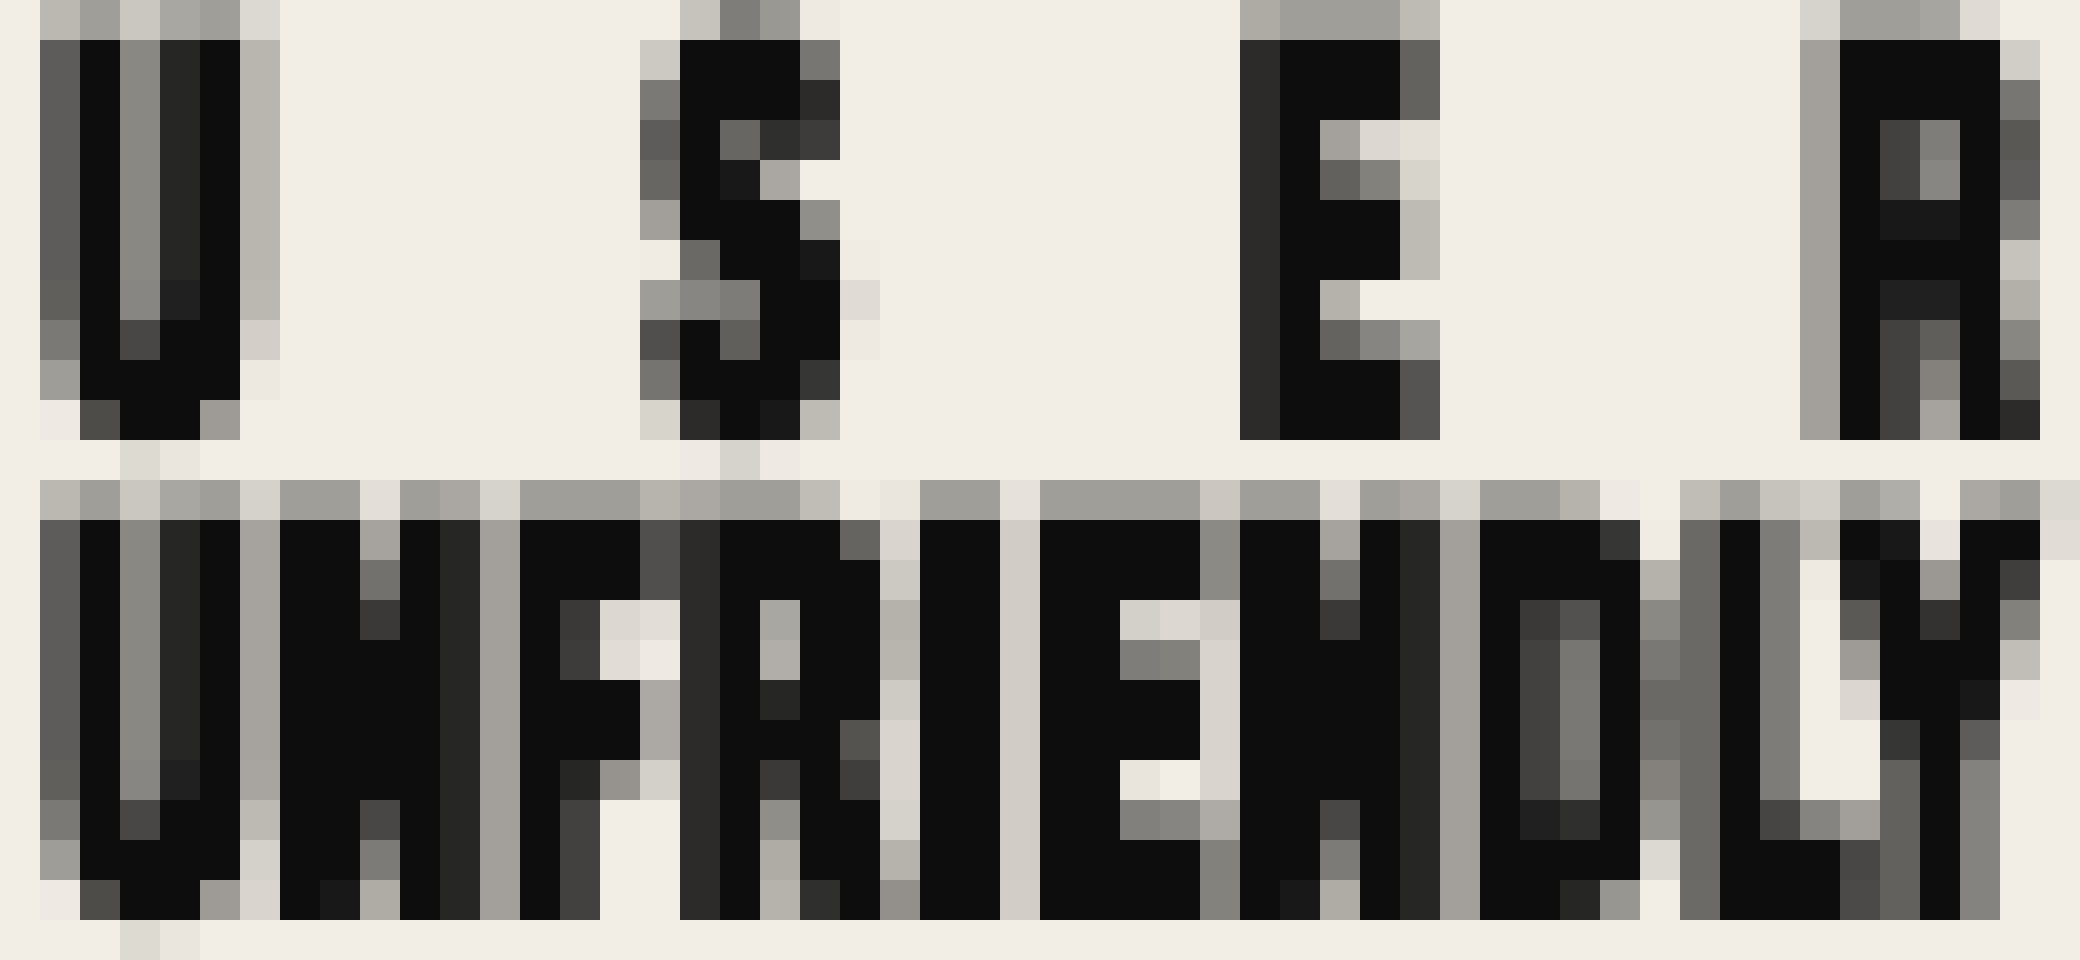
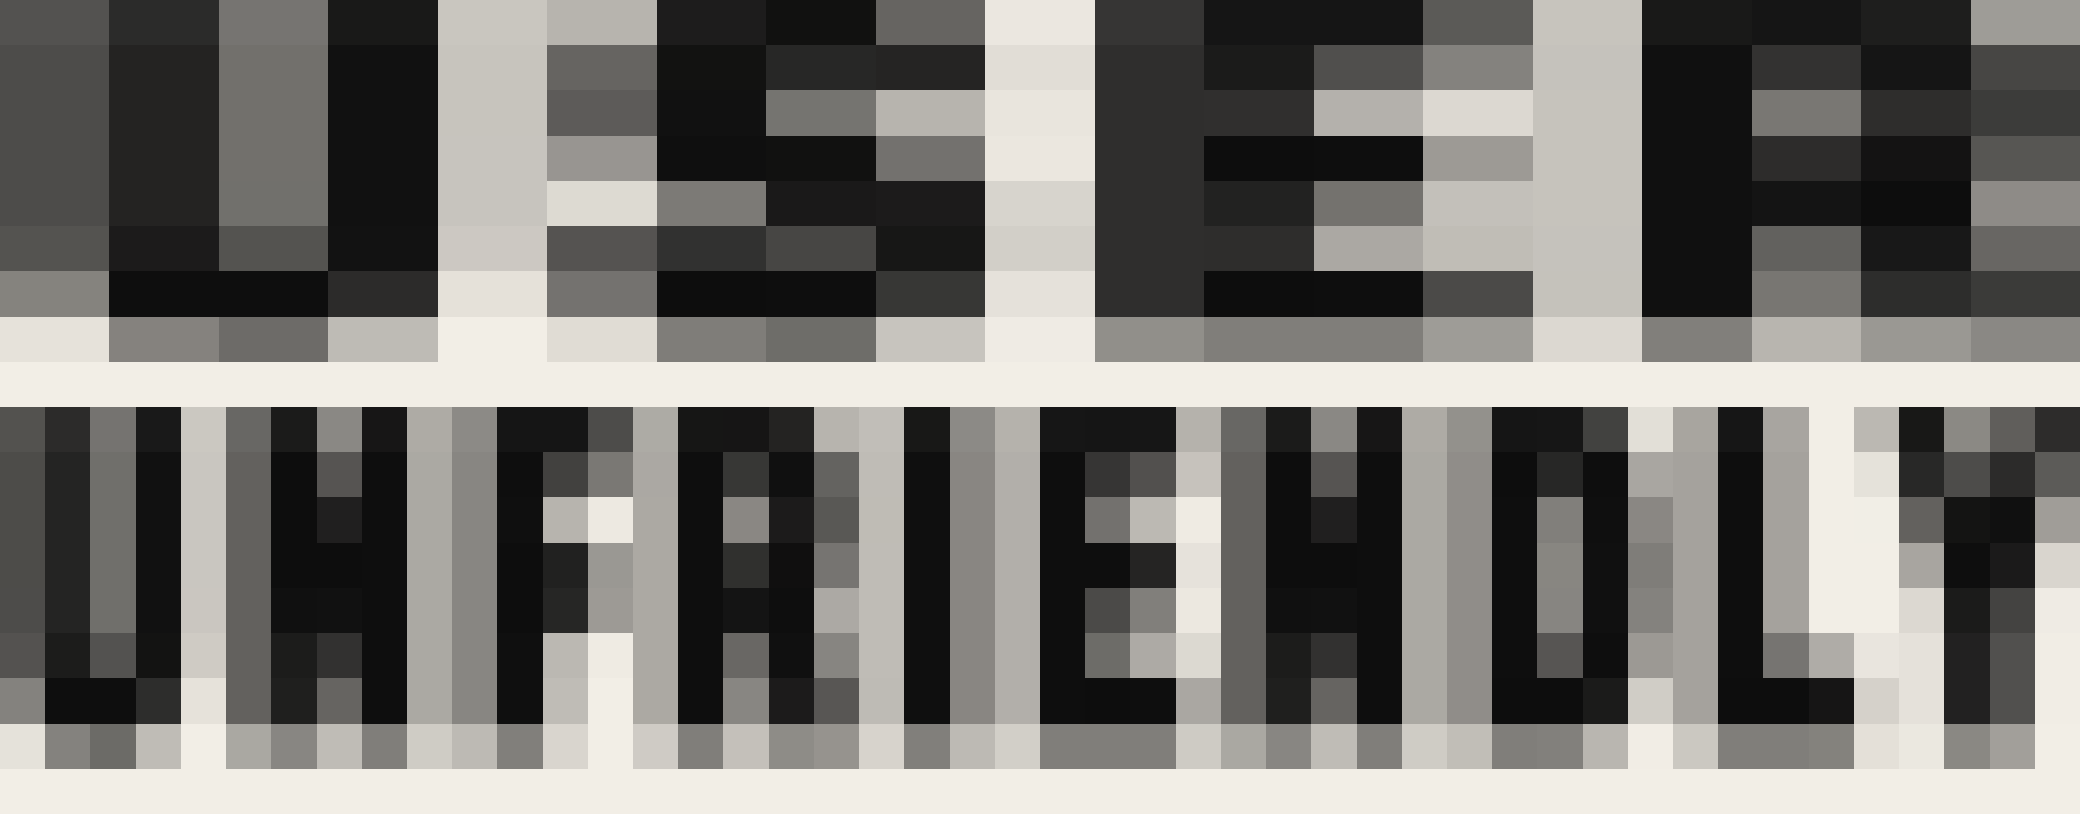
Brand sheet: the hero now follows Nawfal's launch poster
Pixelate the title the way the poster was made: set the words big, shrink
them to blocks, then stretch USER sideways so its blocks come out wide (new
pixelWord() and fitSize()). The smeared line is tall and thin with a
vertical blur, the club line has its </error> box, and the slab ends in one
DM Mono line. The page is reframed around best UI, worst UX: ruin the
features, never the facts. Boxes and tags no longer overflow on phones.

diff --git a/user-unfriendly/index.html b/user-unfriendly/index.html
@@ -40,9 +40,12 @@
     .hero__club { position: relative; margin-top: clamp(28px, 4vw, 48px); text-align: center; font-size: clamp(11px, 1.15vw, 13px); }
     .hero__clubText { display: inline-block; margin: 0; font-weight: 800; font-stretch: 62%; font-size: clamp(20px, 3.5vw, 44px); line-height: 1; letter-spacing: -0.01em; text-transform: uppercase; filter: url(#uu-smear-soft); }
     .hero__title { position: relative; margin-top: clamp(40px, 6vw, 76px); font-size: clamp(11px, 1.15vw, 13px); }
-    .hero__lineWrap { position: relative; margin-top: clamp(18px, 2.6vw, 32px); font-size: clamp(11px, 1.15vw, 13px); }
-    .hero__line { display: inline-block; margin: 0; white-space: nowrap; font-weight: 500; font-stretch: 62%; font-size: 64px; line-height: 1.05; letter-spacing: 0.03em; filter: url(#uu-smear); }
-    .hero .uu-track__tag { font-size: 1em; padding: 0.25em 0.45em 0.15em; }
+    .hero__word { position: relative; }
+    .hero__word + .hero__word { margin-top: 0; }
+    .hero__lineWrap { position: relative; text-align: center; margin-top: clamp(18px, 2.6vw, 32px); font-size: clamp(11px, 1.15vw, 13px); }
+    .hero__line { display: inline-block; margin: 0; white-space: nowrap; font-weight: 300; font-stretch: 62%; font-size: 64px; line-height: 1.1; letter-spacing: 0.09em; word-spacing: 0.12em; filter: url(#uu-smear); transform: scaleY(2); transform-origin: 50% 0; margin-bottom: 1.1em; }
+    .hero .uu-track { border-width: clamp(2px, 0.28vw, 3px); }
+    .hero .uu-track__tag { left: calc(-1 * clamp(2px, 0.28vw, 3px)); font-size: clamp(11px, 1.25vw, 14px); padding: 0.25em 0.45em 0.15em; }
     .hero__dither { display: block; width: 100%; height: auto; image-rendering: pixelated; }
     .hero__crosses { position: relative; height: 0; font-size: 14px; color: var(--uu-ink); }
     .hero__slab { padding-block: clamp(18px, 2.6vw, 32px) clamp(24px, 3.6vw, 46px); }
@@ -178,7 +181,7 @@
 <!-- ======================= HERO ======================= -->
 <header class="hero">
   <svg width="0" height="0" style="position: absolute" aria-hidden="true" focusable="false">
-    <filter id="uu-smear" x="-2%" y="-40%" width="104%" height="180%" primitiveUnits="objectBoundingBox"><feGaussianBlur stdDeviation="0.0022 0.1"/></filter>
+    <filter id="uu-smear" x="-2%" y="-40%" width="104%" height="180%" primitiveUnits="objectBoundingBox"><feGaussianBlur stdDeviation="0.0022 0.055"/></filter>
     <filter id="uu-smear-soft" x="-2%" y="-40%" width="104%" height="180%" primitiveUnits="objectBoundingBox"><feGaussianBlur stdDeviation="0.0012 0.035"/></filter>
   </svg>
   <div class="hero__field">
@@ -192,7 +195,8 @@
         <p class="hero__clubText">GDG on Campus UOBD × Computing <span class="hit">Club</span></p>
       </div>
       <div class="hero__title" data-hero-title aria-hidden="true">
-        <canvas class="uu-pixels" width="52" height="24"></canvas>
+        <div class="hero__word"><canvas class="uu-pixels" width="20" height="10"></canvas></div>
+        <div class="hero__word"><canvas class="uu-pixels" width="46" height="10"></canvas></div>
       </div>
       <div class="hero__lineWrap" data-hero-line aria-hidden="true">
         <p class="hero__line">if you can read the text above, <span class="hit">we failed</span></p>
@@ -653,7 +657,7 @@
     <ul class="files">
       <li><b>USER-UNFRIENDLY.md</b><span>These rules as one text file. Give it to a designer or an AI assistant so whatever they make matches.</span><a class="uu-btn" href="https://github.com/UdayAhuja19/gdg-resources/blob/main/user-unfriendly/USER-UNFRIENDLY.md">Read</a></li>
       <li><b>user-unfriendly.css</b><span>The colours, type and every part on this page, sized in em. Link it and use the <code>uu-</code> classes.</span><a class="uu-btn" href="user-unfriendly.css" download>Download</a></li>
-      <li><b>user-unfriendly.js</b><span>The pixel effects: the mosaic title and the red dither edge, drawn on a canvas so they stay sharp at any size.</span><a class="uu-btn" href="user-unfriendly.js" download>Download</a></li>
+      <li><b>user-unfriendly.js</b><span>The pixel effects: the launch poster's mosaic title (<code>pixelWord</code>), a simpler mosaic (<code>pixelText</code>) and the red dither edge, drawn on a canvas so they stay sharp at any size.</span><a class="uu-btn" href="user-unfriendly.js" download>Download</a></li>
       <li><b>Archivo</b><span>The one font file covers every weight (100–900) and width (62–125%). SIL Open Font License.</span><a class="uu-btn" href="fonts/archivo-latin-wdth-normal.woff2" download>Download</a></li>
       <li><b>DM Mono</b><span>Regular only. SIL Open Font License. On Google Fonts too.</span><a class="uu-btn" href="fonts/DMMono-Regular.ttf" download>Download</a></li>
     </ul>
@@ -670,7 +674,7 @@
 </footer>
 
 <script type="module">
-  import { fontsReady, pixelText, dither } from "./user-unfriendly.js";
+  import { fontsReady, pixelText, pixelWord, fitSize, dither } from "./user-unfriendly.js";
 
   // Copy a colour's hex code
   const said = document.querySelector("[data-copied]");
@@ -711,10 +715,15 @@
 
   await fontsReady();
 
-  // The hero title, pixelated like the launch poster: tall letters, a box on the first U
-  const title = document.querySelector("[data-hero-title]");
-  const boxes = pixelText(title.querySelector("canvas"), { lines: ["USER", "UNFRIENDLY"], cols: 52, spread: [0], tall: 1.35, gap: 0.1 });
-  track(title, boxes[0][0], "i cant find the back button help", true);
+  // The hero title, made like the launch poster: both words pixelated at one size, then USER stretched to the
+  // full width so its blocks come out wide. A box on the first U.
+  const [userCanvas, unfriendlyCanvas] = document.querySelectorAll("[data-hero-title] canvas");
+  const look = { tall: 1.25, soften: 0.18, track: 0.07 };
+  const size = fitSize("UNFRIENDLY", 46, undefined, look.track);
+  pixelWord(unfriendlyCanvas, "UNFRIENDLY", { size, ...look });
+  const letters = pixelWord(userCanvas, "USER", { size, ...look });
+  userCanvas.style.aspectRatio = `${unfriendlyCanvas.width} / ${userCanvas.height}`;
+  track(userCanvas.parentElement, letters[0], "i cant find the back button help", true);
 
   // Boxes round words in the smeared lines sit outside the smear, so they stay sharp
   const club = document.querySelector("[data-hero-club]");
@@ -735,7 +744,7 @@
   const layout = () => {
     // The smeared line runs the full width, like the poster
     line.style.fontSize = "64px";
-    line.style.fontSize = `${(64 * lineWrap.clientWidth) / line.getBoundingClientRect().width}px`;
+    line.style.fontSize = `${(64 * 0.8 * lineWrap.clientWidth) / line.getBoundingClientRect().width}px`;
     around(lineWrap, line.querySelector(".hit"), failed, 6, 2);
     const hit = club.querySelector(".hit");
     around(club, hit, clubBox, 6, 10, hit.getBoundingClientRect().width * 1.6);

diff --git a/user-unfriendly/user-unfriendly.js b/user-unfriendly/user-unfriendly.js
@@ -26,8 +26,9 @@ function setFont(ctx, px, stretch = "extra-condensed") {
 }
 
 /*
-  Draws lines of capitals into a canvas `cols` pixels wide. Lines whose index is in `spread` are spaced out
-  letter by letter to fill the width (USER on the launch poster); the other lines decide the type size.
+  Draws lines of capitals into a canvas `cols` pixels wide. Lines whose index is in `spread` are stretched
+  sideways to fill the width, letters wide and close together (USER on the launch poster); the other lines
+  decide the type size.
   Returns every letter's box as fractions of the canvas ({ x, y, w, h }), for placing tracking boxes on top.
   `stretch` is a canvas width keyword ("condensed" is wider); `tall` stretches the letters upwards, 1.35 for the
   launch poster's tall letters.
@@ -58,21 +59,20 @@ export function pixelText(canvas, { lines, cols = 60, spread = [], color = INK, 
     const base = 1 + cap * (i + 1) + lead * i;
     const chars = [...line];
     const widths = chars.map((c) => ctx.measureText(c).width);
-    const draw = (text, x) => {
+    const draw = (text, x, wide = 1) => {
       ctx.save();
       ctx.translate(x, base);
-      ctx.scale(1, tall);
+      ctx.scale(wide, tall);
       ctx.fillText(text, 0, 0);
       ctx.restore();
     };
     const out = [];
-    if (spread.includes(i) && chars.length > 1) {
-      const step = (cols - 2 - widths.reduce((a, b) => a + b, 0)) / (chars.length - 1);
-      let x = 1;
+    if (spread.includes(i)) {
+      const wide = (cols - 2) / ctx.measureText(line).width;
+      draw(line, 1, wide);
       chars.forEach((c, k) => {
-        draw(c, x);
-        out.push({ x: x / cols, y: (base - cap) / rows, w: widths[k] / cols, h: cap / rows });
-        x += widths[k] + step;
+        const x = 1 + ctx.measureText(line.slice(0, k)).width * wide;
+        out.push({ x: x / cols, y: (base - cap) / rows, w: (widths[k] * wide) / cols, h: cap / rows });
       });
     } else {
       const x0 = (cols - ctx.measureText(line).width) / 2;
@@ -95,6 +95,70 @@ export function pixelText(canvas, { lines, cols = 60, spread = [], color = INK, 
     }
   }
   return boxes;
+}
+
+/*
+  The launch poster's mosaic, done the way it was made: a word set at full size, then shrunk to a few dozen
+  blocks, each block's grey being how much of it the letter covers. Stretch the canvas afterwards (CSS
+  aspect-ratio) and the blocks stretch too, like USER on the poster. fitSize() gives the size that fits a word
+  into `cols` blocks, so two words can share one size. Returns each letter's box as fractions of the canvas.
+*/
+export function fitSize(text, cols, stretch = "extra-condensed", track = 0) {
+  const ctx = document.createElement("canvas").getContext("2d");
+  setFont(ctx, 100, stretch);
+  const width = [...text].reduce((sum, c) => sum + ctx.measureText(c).width, 0) + track * 100 * (text.length - 1);
+  return (100 * cols) / width;
+}
+
+export function pixelWord(canvas, text, { size, tall = 1, stretch = "extra-condensed", color = INK, background = PAPER, detail = 8, soften = 0, track = 0 } = {}) {
+  const probe = document.createElement("canvas").getContext("2d");
+  setFont(probe, size, stretch);
+  // `track` adds space between letters, in em
+  const chars = [...text];
+  const widths = chars.map((c) => probe.measureText(c).width);
+  const starts = widths.map((_, k) => widths.slice(0, k).reduce((a, b) => a + b, 0) + track * size * k);
+  const width = starts.at(-1) + widths.at(-1);
+  const cap = probe.measureText("H").actualBoundingBoxAscent * tall;
+  const cols = Math.max(1, Math.round(width));
+  const rows = Math.ceil(cap + 0.6);
+
+  // Set the word `detail` times bigger, transparent everywhere but the letters
+  const big = document.createElement("canvas");
+  big.width = cols * detail;
+  big.height = rows * detail;
+  const b = big.getContext("2d", { willReadFrequently: true });
+  setFont(b, size * detail, stretch);
+  // `soften` blurs the letters (in blocks) before they're shrunk, for the poster's soft greys
+  if (soften) b.filter = `blur(${soften * detail}px)`;
+  b.save();
+  b.translate(0, cap * detail);
+  b.scale(cols / width, tall);
+  chars.forEach((c, k) => b.fillText(c, starts[k] * detail, 0));
+  b.restore();
+  const { data } = b.getImageData(0, 0, big.width, big.height);
+
+  // Shrink it by averaging: each block mixes paper and ink by how much letter it holds
+  canvas.width = cols;
+  canvas.height = rows;
+  const ctx = canvas.getContext("2d");
+  const out = ctx.createImageData(cols, rows);
+  const hex = (h) => [1, 3, 5].map((i) => parseInt(h.slice(i, i + 2), 16));
+  const [bg, fg] = [hex(background), hex(color)];
+  for (let y = 0; y < rows; y++) {
+    for (let x = 0; x < cols; x++) {
+      let sum = 0;
+      for (let dy = 0; dy < detail; dy++) {
+        for (let dx = 0; dx < detail; dx++) sum += data[((y * detail + dy) * big.width + x * detail + dx) * 4 + 3];
+      }
+      const cover = sum / (255 * detail * detail);
+      const i = (y * cols + x) * 4;
+      for (let c = 0; c < 3; c++) out.data[i + c] = Math.round(bg[c] + (fg[c] - bg[c]) * cover);
+      out.data[i + 3] = 255;
+    }
+  }
+  ctx.putImageData(out, 0, 0);
+  const sx = cols / width;
+  return chars.map((_, k) => ({ x: (starts[k] * sx) / cols, y: 0, w: (widths[k] * sx) / cols, h: cap / rows }));
 }
 
 /*

diff --git a/user-unfriendly/USER-UNFRIENDLY.md b/user-unfriendly/USER-UNFRIENDLY.md
@@ -60,7 +60,7 @@ All in `user-unfriendly.css`, sized in em (set `font-size` on a part to scale it
 - **Agenda** `.uu-agenda`: the AGENDA.EXE panel with ticks, times and lengths.
 - **Event app:** `.uu-card` (a dealt website or feature), `.uu-badge` (award badges, `aria-pressed`), `.uu-rate` (the judges' six blocks).
 
-`user-unfriendly.js` draws the pixel effects on a `<canvas class="uu-pixels">`: `pixelText()` for a mosaic title (soft greys like the launch poster, or `crisp: true` for ink blocks) and `dither()` for the red pixel edge into a slab. Call `fontsReady()` first.
+`user-unfriendly.js` draws the pixel effects on a `<canvas class="uu-pixels">`. `pixelWord()` makes the launch poster's mosaic the way it was made: the word set big (with `tall`, `track` and `soften`), shrunk to blocks whose grey is how much letter they hold, and stretched afterwards with CSS `aspect-ratio` so the blocks stretch too (`fitSize()` gives two words one size). `pixelText()` is the simpler mosaic, with `crisp: true` for ink-only blocks like the agenda posters. `dither()` draws the red pixel edge into a slab. Call `fontsReady()` first.
 
 ## Layout
 
